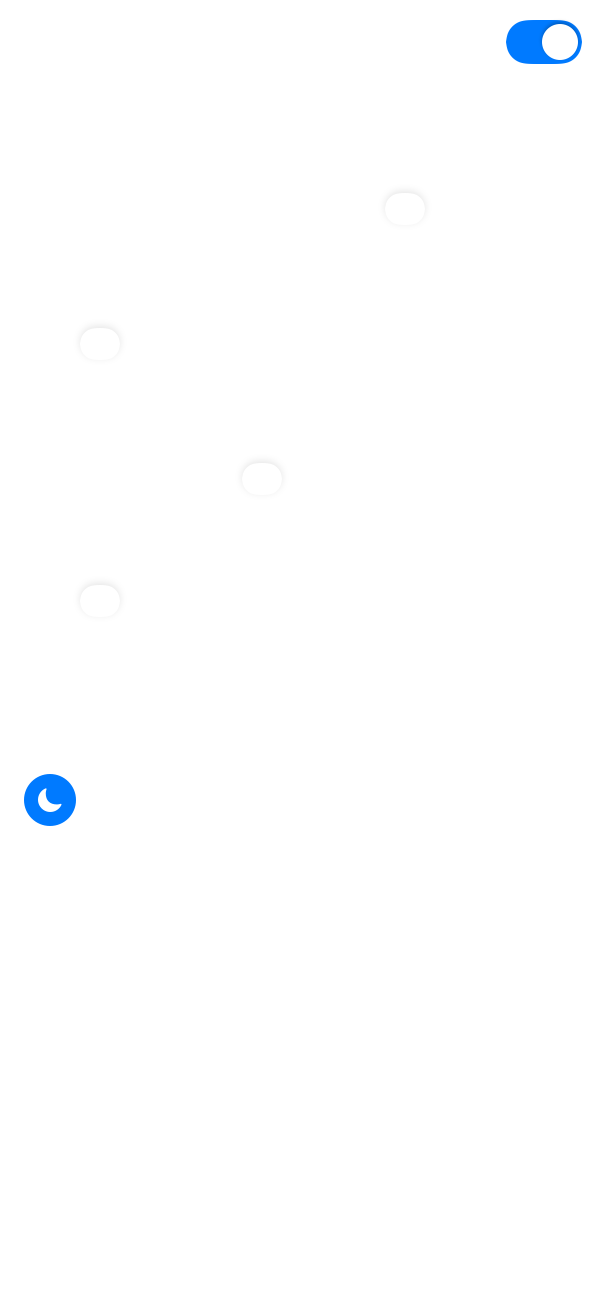
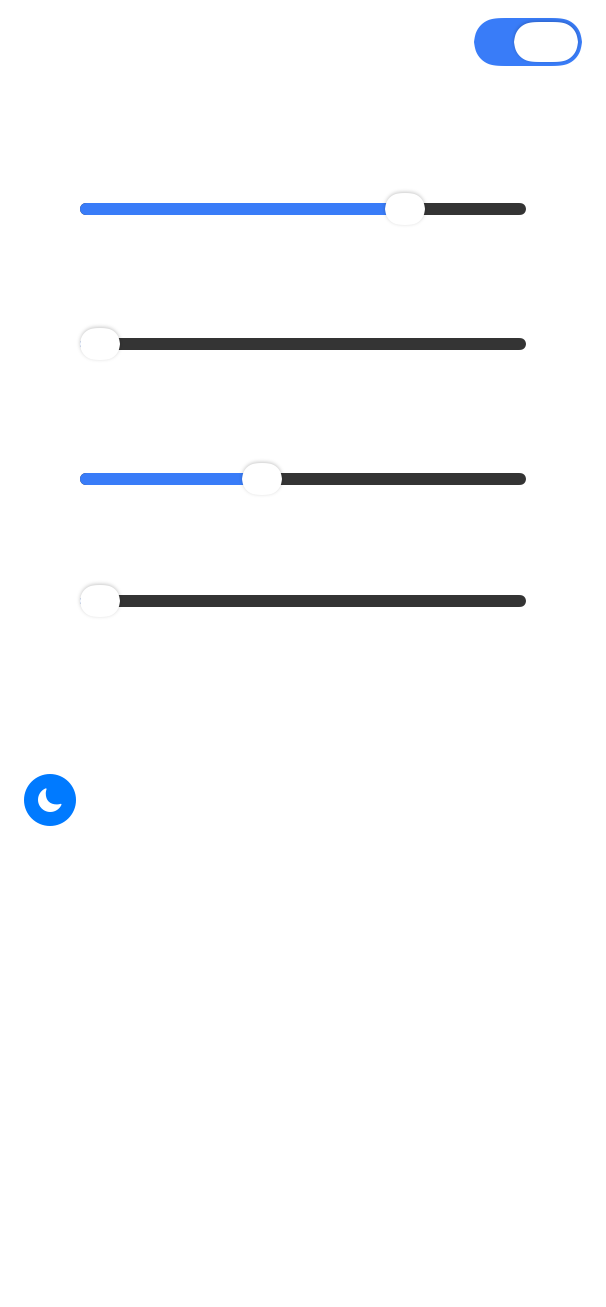
Documentation renders draw the switch and sliders as macOS 27 does
Measured from the running app at 2x: the switch is a 54 x 24 pt track with a
32 x 20 pt pill knob inset 2 pt (not a round knob), and sliders show a 6 pt
track with the accent fill up to the knob. Off-screen, AppKit draws these
controls inactive, without fill or glass, so --snapshot runs draw them; the
geometry matches the live controls to the half point. Site panel and README
hero re-rendered.

diff --git a/app/RedLightApp.swift b/app/RedLightApp.swift
@@ -1128,6 +1128,10 @@ enum CC {
     static let sep       = Color(nsColor: .separatorColor)
     static let circle    = Color(nsColor: .quaternaryLabelColor)
     static let symbol    = Color(nsColor: .secondaryLabelColor)
+    // Only for documentation renders, where AppKit draws inactive controls without their glass or fill:
+    // the active accent and the empty track, sampled from the running app on macOS 27 (dark).
+    static let accentDrawn = Color(red: 57 / 255, green: 124 / 255, blue: 248 / 255)
+    static let trackDrawn  = Color(red: 52 / 255, green: 52 / 255, blue: 52 / 255)
 }
 struct Step: Identifiable { let label: String; let value: Double?; var id: String { label } }
 // Denser above the 60 % knee, where blue is already gone and each step is a different feel of red.
@@ -1233,6 +1237,20 @@ struct GlassSlider: View {
             }
         }
     }
+    /// The slider as it looks active on screen (a 6 pt track, the accent fill up to the knob, a 20 x 16 pt knob),
+    /// drawn into the real control's frame for documentation renders only.
+    private func drawnSlider(_ v: Double) -> some View {
+        GeometryReader { geo in
+            let knob = CGSize(width: 20, height: 16), span = max(1, geo.size.width - knob.width)
+            let x = knob.width / 2 + span * CGFloat(v / Double(max(1, steps.count - 1))), mid = geo.size.height / 2
+            ZStack(alignment: .topLeading) {
+                Capsule().fill(CC.trackDrawn).frame(width: geo.size.width, height: 6).position(x: geo.size.width / 2, y: mid)
+                Capsule().fill(CC.accentDrawn).frame(width: x, height: 6).position(x: x / 2, y: mid)
+                Capsule().fill(.white).frame(width: knob.width, height: knob.height)
+                    .shadow(color: .black.opacity(0.22), radius: 1, y: 0.5).position(x: x, y: mid)
+            }
+        }
+    }
     var body: some View {
         let position = Binding<Double>(
             get: { dragIdx ?? truePosition },
@@ -1249,6 +1267,8 @@ struct GlassSlider: View {
             Image(systemName: minIcon).font(.system(size: 13)).foregroundStyle(.secondary).frame(width: 18)
             Slider(value: position, in: 0...Double(max(1, steps.count - 1))) { editing in if !editing { finish() } }
                 .controlSize(.regular)      // Control Center's knob is 20 pt; .large draws 24
+                .opacity(isSnapshotRun ? 0 : 1)
+                .overlay { if isSnapshotRun { drawnSlider(position.wrappedValue) } }
                 .overlay(alignment: .bottom) { tickMarks }
             Image(systemName: maxIcon).font(.system(size: 13)).foregroundStyle(.secondary).frame(width: 18)
         }
@@ -1283,10 +1303,12 @@ struct SwitchView: View {
     let isOn: Binding<Bool>; var small = false; var drawn = false
     var body: some View {
         if drawn {
-            let w: CGFloat = small ? 32 : 38, h: CGFloat = small ? 18 : 22
+            // Measured from the running switch on macOS 27 at 2x: a 54 x 24 pt track and a 32 x 20 pt capsule knob
+            // inset 2 pt (the Liquid Glass switch's knob is a pill, not a circle). Small scales by the system's 0.8.
+            let k: CGFloat = small ? 0.8 : 1, w = 54 * k, h = 24 * k, kw = 32 * k, kh = 20 * k
             ZStack(alignment: isOn.wrappedValue ? .trailing : .leading) {
-                Capsule().fill(isOn.wrappedValue ? Color.accentColor : Color.primary.opacity(0.18)).frame(width: w, height: h)
-                Circle().fill(.white).frame(width: h - 4, height: h - 4).shadow(color: .black.opacity(0.25), radius: 1, y: 1).padding(2)
+                Capsule().fill(isOn.wrappedValue ? CC.accentDrawn : CC.trackDrawn).frame(width: w, height: h)
+                Capsule().fill(.white).frame(width: kw, height: kh).shadow(color: .black.opacity(0.22), radius: 1, y: 0.5).padding(2 * k)
             }
         } else if small {
             Toggle("", isOn: isOn).toggleStyle(.switch).labelsHidden().controlSize(.small)
